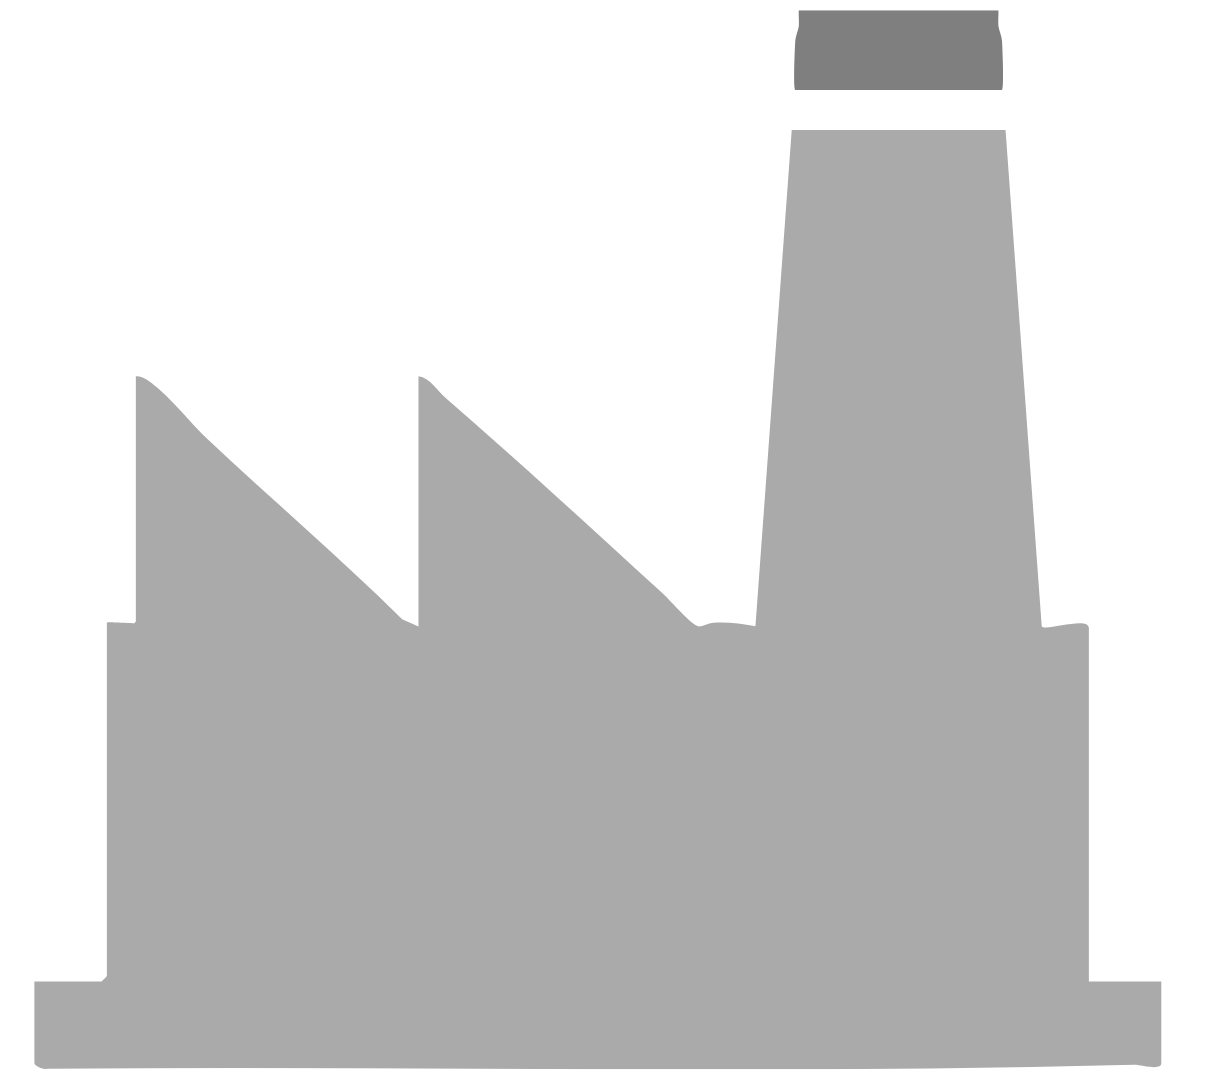
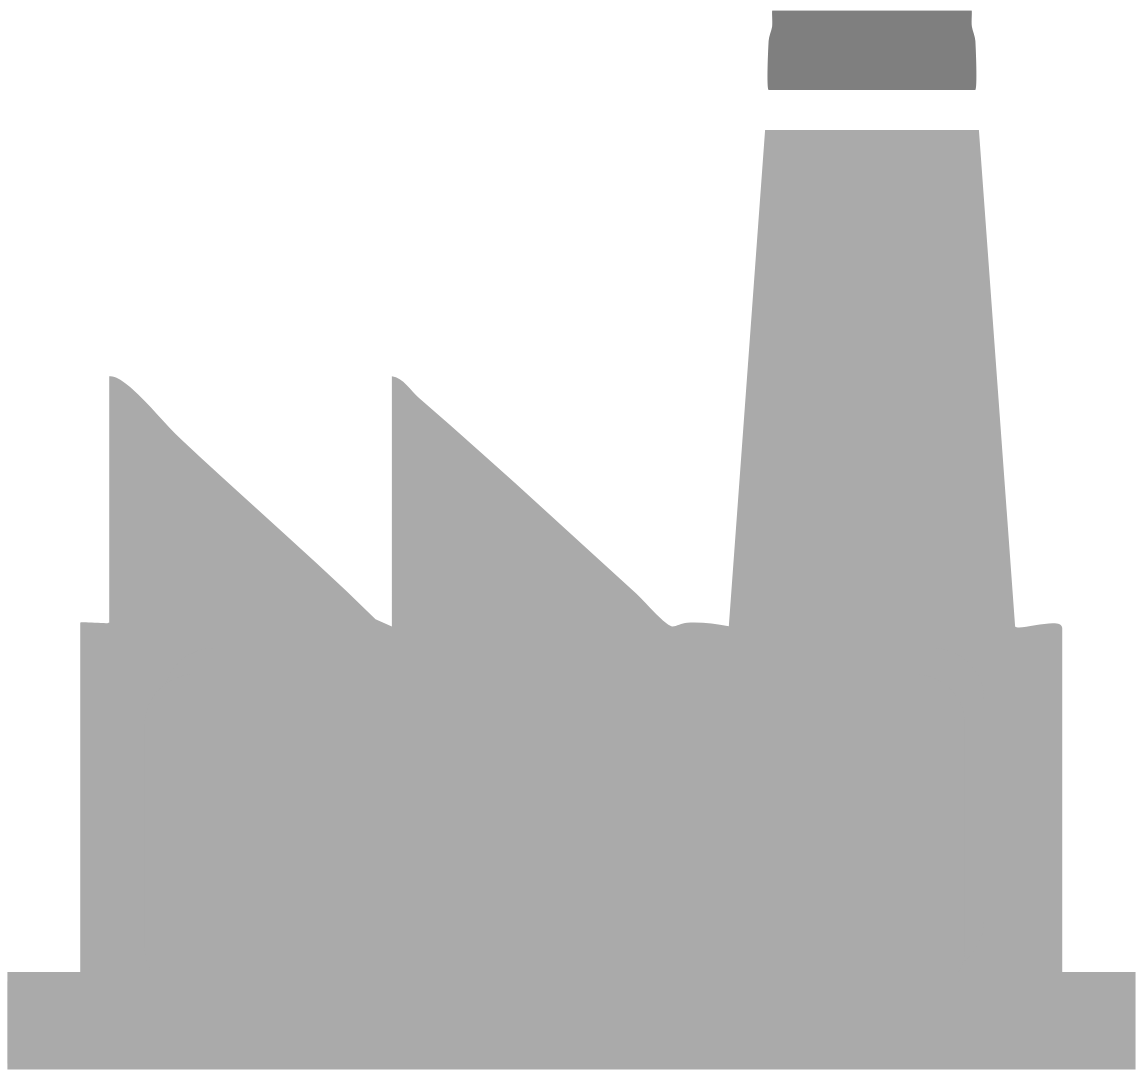
commit-Factory

diff --git a/component/home.css b/component/home.css
@@ -1,17 +1,31 @@
 .home-container {
     position: relative;
-    width: 100%;
+    width: 820px;     
+    height: 550px;    
     display: flex;
     justify-content: center;
     align-items: center;
+    margin-left: 10px;
 }
 
-.home-img {
-    width: clamp(100%, 30vw, 100%);
-    max-width: 600px;
-    object-fit: contain;
+.factory-img {
+    max-width: 105%;
+    max-height: 100%;
+    object-fit: contain;  
     display: block;
+    object-fit: cover; 
 }
+
+
+.hr-fty {
+    margin-top: 10px;
+    opacity: 0.3; 
+}
+
+.title-fty{
+    margin-top: 10px;    
+}
+
 
 .card-container {
     position: absolute;
@@ -19,34 +33,56 @@
     left: 50%;
     transform: translateX(-50%);
     display: flex;
-    gap: clamp(10px, 5vw, 25px);
-    z-index: 10;
+    gap: 10%;      
+    width: 60%;   
+    justify-content: center;
 }
 
+
 .card {
-    width: clamp(80px, 15vw, 160px);
-    height: clamp(60px, 15vw, 140px);
-    border-radius: 15px;
+    width: 22%;           
+    aspect-ratio: 1 / 0.9;  
+
+    max-width: 160px;       
+    min-width: 140px;
+    
+    outline: 1.5px solid rgba(51, 51, 51, 0.034);
+
+    border-radius: 10px;
     display: flex;
     align-items: center;
     justify-content: center;
-    color: #fff;
-    font-size: clamp(14px, 3vw, 18px);
+
+    color: #4b4b4b;
+    font-size: clamp(12px, 2.2vw, 18px);
     font-weight: bold;
-    box-shadow: 0 5px 18px rgba(0,0,0,0.25);
+
+    box-shadow:
+    inset 6px 6px 12px rgba(0,0,0,0.25),
+    inset -6px -6px 12px rgba(255,255,255,0.35);
+    
     cursor: pointer;
     transition: 0.2s ease;
 }
 
+
 .card:hover {
     transform: translateY(-6px);
+    outline: 0px;
     box-shadow: 0 8px 28px rgba(0, 0, 0, 0.15);
+}
+
+.card:active {
+    box-shadow:
+        inset 8px 8px 14px rgba(0,0,0,0.35),
+        inset -8px -8px 14px rgba(255,255,255,0.25);
+    transform: scale(0.97);
 }
 
 
 .card-bg {
     width: 100%;
-    min-height: 300px;
+    min-height: 200px;
     background:
         linear-gradient(rgba(32, 32, 32, 0.185), rgba(16, 0, 85, 0.178)), 
         url("../Img/aisin.jpg");
@@ -67,9 +103,35 @@
     text-shadow: 0 2px 4px rgba(0, 0, 0, 0.45); 
 }
 
-@media (max-width: 480px) {
-.card-container {
-    top: 65%;
-}
 
+
+@media (max-width: 900px) {
+    .room-layout-home {
+        flex-direction: column;
+        align-items: center;
+    }
+
+    .factory-img {
+        width: 100%;
+        height: 100%;
+        min-height: 320px;  
+        object-fit: contain;
+        object-fit: cover;  
+    }
+
+    .home-container {
+        width: 100%;
+        height: 340px;
+        margin-top: 10px;
+    }
+
+        .card-container {
+        width: 70%;
+        top: 65%;
+    }
+
+    .card {
+        min-width: 80px;
+        font-size: 14px;
+    }
 }

diff --git a/index.html b/index.html
@@ -64,16 +64,25 @@
         <div class="card-bg">AISIN DASHBOARD</div>
     </section>
 
-    <section class="room-layout-home">
-        <h1>FACTORY</h1> 
-    <hr class="hr-bt"/> 
 
-    <section class="home-container" style="grid-column: 1;">
-        <img src="Img/factory.png" class="home-img">
+    <h1 class="title-fty">FACTORY</h1> 
+    <hr class="hr-fty"/>
+
+    <section class="room-layout-fac">
+
+    <section class="home-container">
+        <img src="Img/factory_1.png" class="factory-img">
 
         <div class="card-container">
-            <div class="card" style="background:#1581BF;" onclick="window.location.href='qc_room.html'" >QC</div>
-            <div class="card" style="background:#F6B1CE;" onclick="window.location.href='production_room.html'">PD</div>
+            <div class="card" style="background:#e7e7e7;" onclick="window.location.href='qc_room.html'" >QC</div>
+            <div class="card" style="background:#e7e7e7;" onclick="window.location.href='production_room.html'">PD</div>
+        </div>
+    </section>
+    <section class="home-container" style="grid-column: 1;">
+        <img src="Img/factory.png" class="factory-img">
+
+        <div class="card-container">
+            <div class="card" style="background:#e7e7e7;">Vender</div>
         </div>
     </section>
 </section>        

diff --git a/component/layout.css b/component/layout.css
@@ -16,13 +16,23 @@
   /* height: 100vh; */
 }
 
+.room-layout-fac {
+  display: flex;
+  gap: 0;
+  margin-top: 10px;
+  justify-content: center;
+  align-items: flex-end;
+}
+
 .room-layout-home {
   display: grid;
   grid-template-columns: 1fr; 
   gap: 10px;
+  padding-left: 20px;
   margin-top: 10px;
   align-items: flex-start;
 }
+
 
 
 .room-layout-9 {
